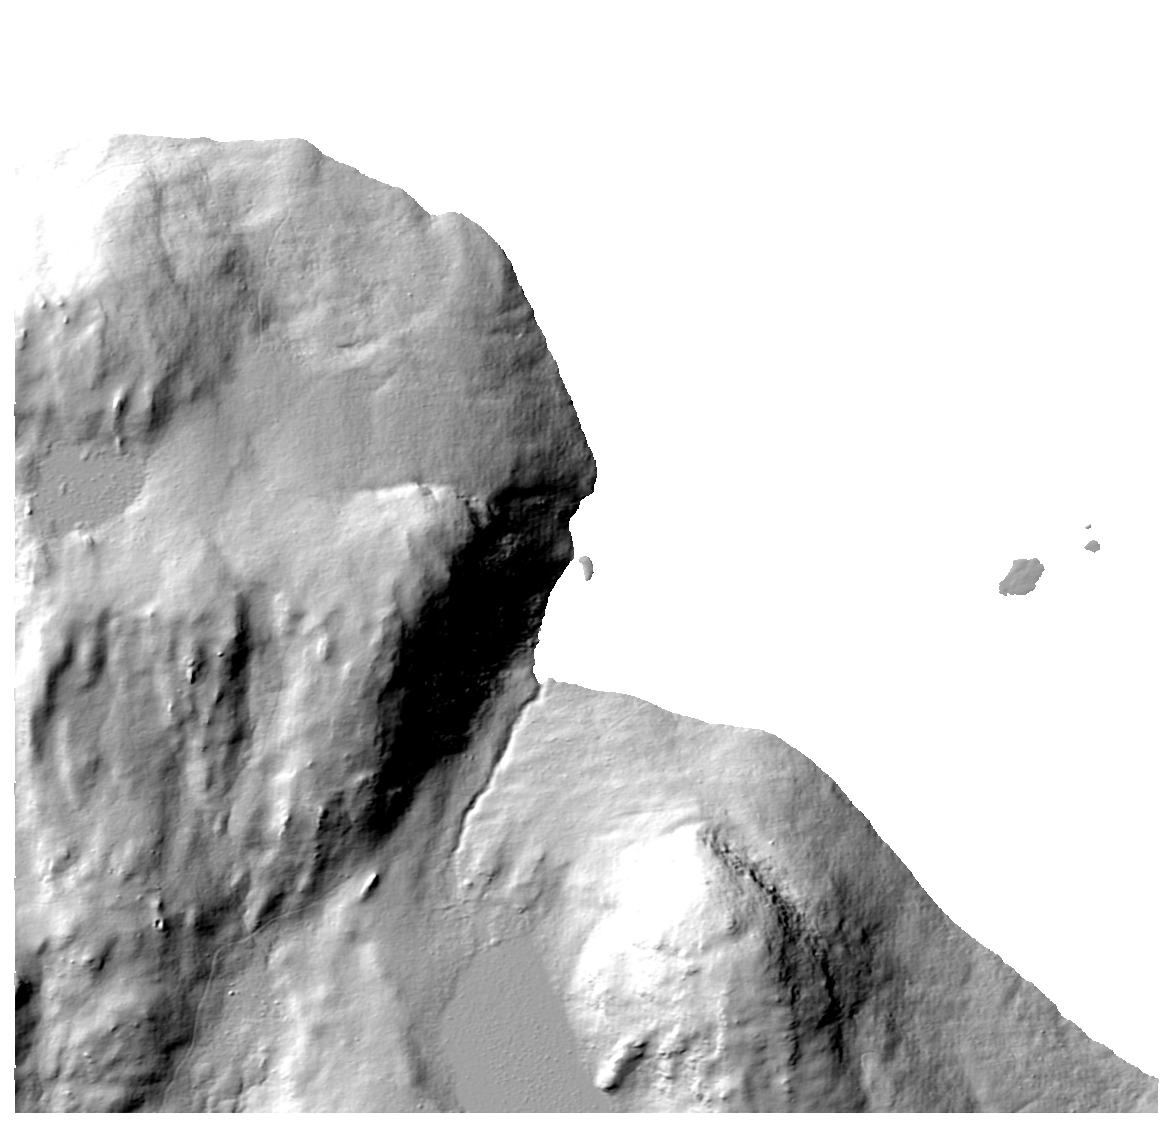
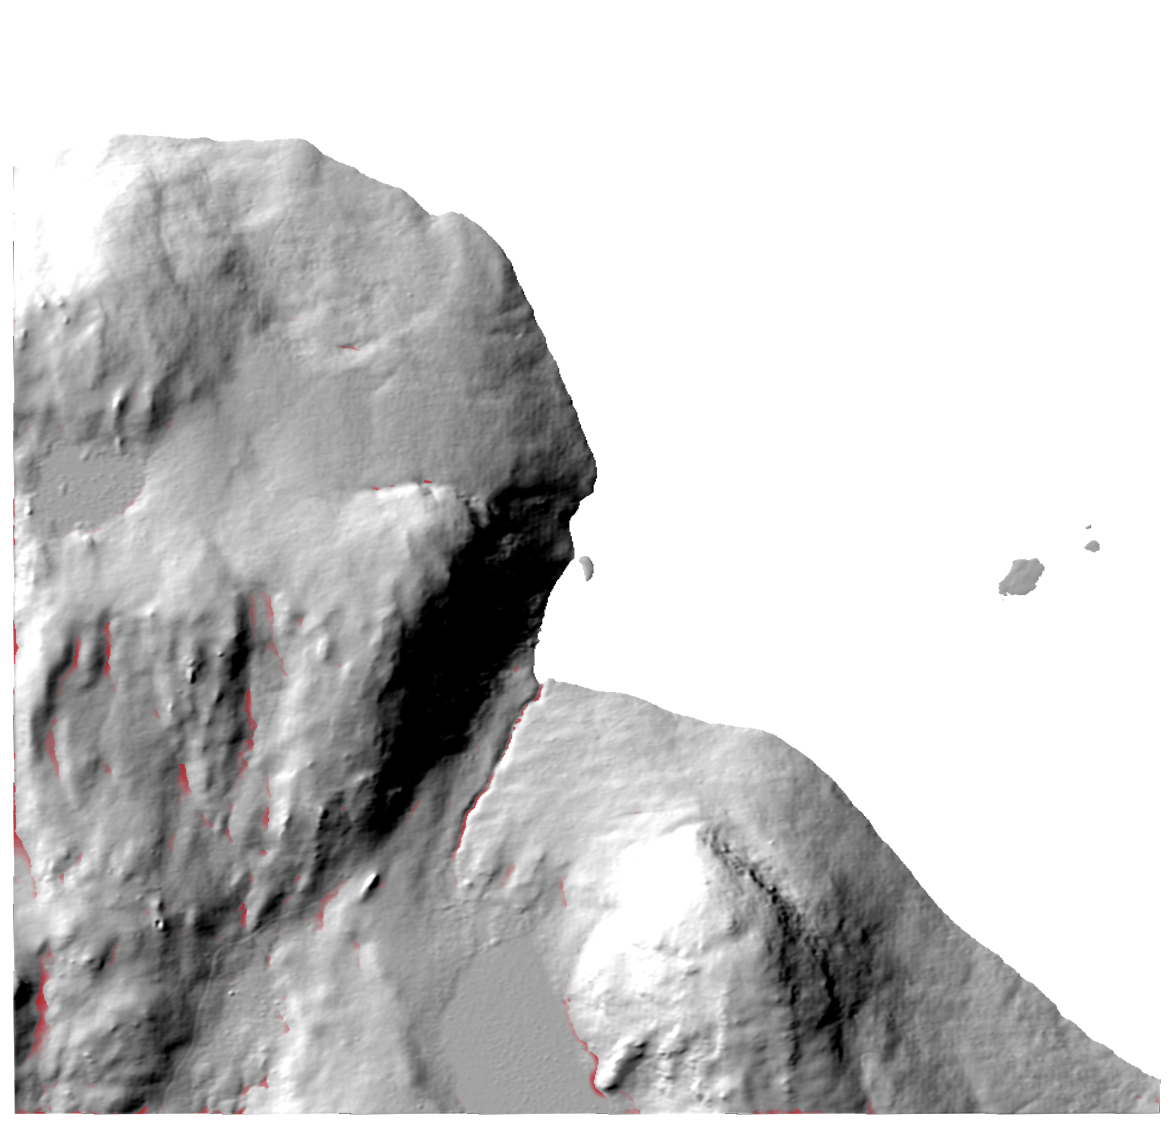
Enhance Quabbin road + LiDAR figures
- 16_roads: replace the straight-line schematic with the real valley road
  network rendered from the georeferenced 1893 USGS Belchertown quad, with the
  present reservoir overlaid to show which roads and villages drowned and the
  routes out to the surviving neighbours labelled.
- 14/15 LiDAR: rework the visualization -- a denoised low-sun hillshade plus a
  local relief model that flags genuine depressions (cellar holes, road cuts) in
  red, slope-masked so natural gullies on the flanks aren't false-flagged;
  lighter land-only web overlays.
- Docs: update README and quabbin.html to match (roads is no longer schematic).

diff --git a/README.md b/README.md
@@ -32,7 +32,7 @@ present-day map in which their land has been absorbed by the surrounding towns.
 | 13 | `13_terrain3d.png` | 3D view of the valley and reservoir | DEM (`persp`) |
 | 14 | `14_dana_lidar.png` | Dana Common in 1 m LiDAR (surviving town site) | USGS 3DEP LiDAR |
 | 15 | `15_prescott_lidar.png` | The Prescott Peninsula in 1 m LiDAR | USGS 3DEP LiDAR |
-| 16 | `16_roads.png` | Road connectivity ~1893 (towns to neighbours) | 1893 USGS quad (schematic) |
+| 16 | `16_roads.png` | The valley's 1893 road network, with the reservoir overlaid | 1893 USGS quad |
 
 Plus a **reservoir-filling animation** (`quabbin_floodfill.gif`) and an
 **interactive Leaflet map** in [`map/`](map/): an adjustable pool level, the 1893
@@ -155,14 +155,19 @@ never breaks the run — it degrades to a documented fallback instead.
   fade overlay in the interactive map.
 - **LiDAR of the surviving sites** (`12_lidar.R`) — 1 m bare-earth LiDAR from the
   USGS 3DEP dynamic elevation service (public domain) for Dana Common and the
-  Prescott Peninsula, the two areas above the full pool. Low-sun hillshades reveal
-  old commons, road traces, and cellar holes; exported as land-only overlays
-  (transparent over water) for the map. Submerged areas are not shown: the
-  buildings were demolished and LiDAR cannot penetrate water.
-- **Road connectivity** (`13_roads.R`) — a schematic of the principal roads linking
-  the four towns and their neighbours, drawn from the 1893 quad. Node positions are
-  town centres and links are not exact alignments (the precise roads are in the
-  1893 overlay).
+  Prescott Peninsula, the two areas above the full pool. A denoised low-sun
+  hillshade carries the terrain; a local relief model (elevation minus its local
+  mean) then flags genuine depressions deeper than ~0.5 m — cellar holes and road
+  cuts — in red, with a slope mask so natural gullies on the flanks aren't false-
+  flagged. Exported as land-only overlays (transparent over water) for the map.
+  Submerged areas are not shown: the buildings were demolished and LiDAR cannot
+  penetrate water, and the conservative threshold under-flags rather than fills the
+  frame with canopy noise.
+- **The valley's road network** (`13_roads.R`) — renders the real Swift River
+  Valley roads from the georeferenced 1893 USGS Belchertown quadrangle, with the
+  present reservoir overlaid in blue so you can see which roads and villages
+  drowned. The four town centres are marked and the routes out to the surviving
+  neighbours are labelled at the frame edges.
 - **Interactive map** — Leaflet (vendored locally, no CDN dependency) over Esri
   World Hillshade + CARTO label tiles, consuming the exported GeoJSON, the 1893
   overlay, and the LiDAR overlays. The basemap tiles need internet; every layer the
